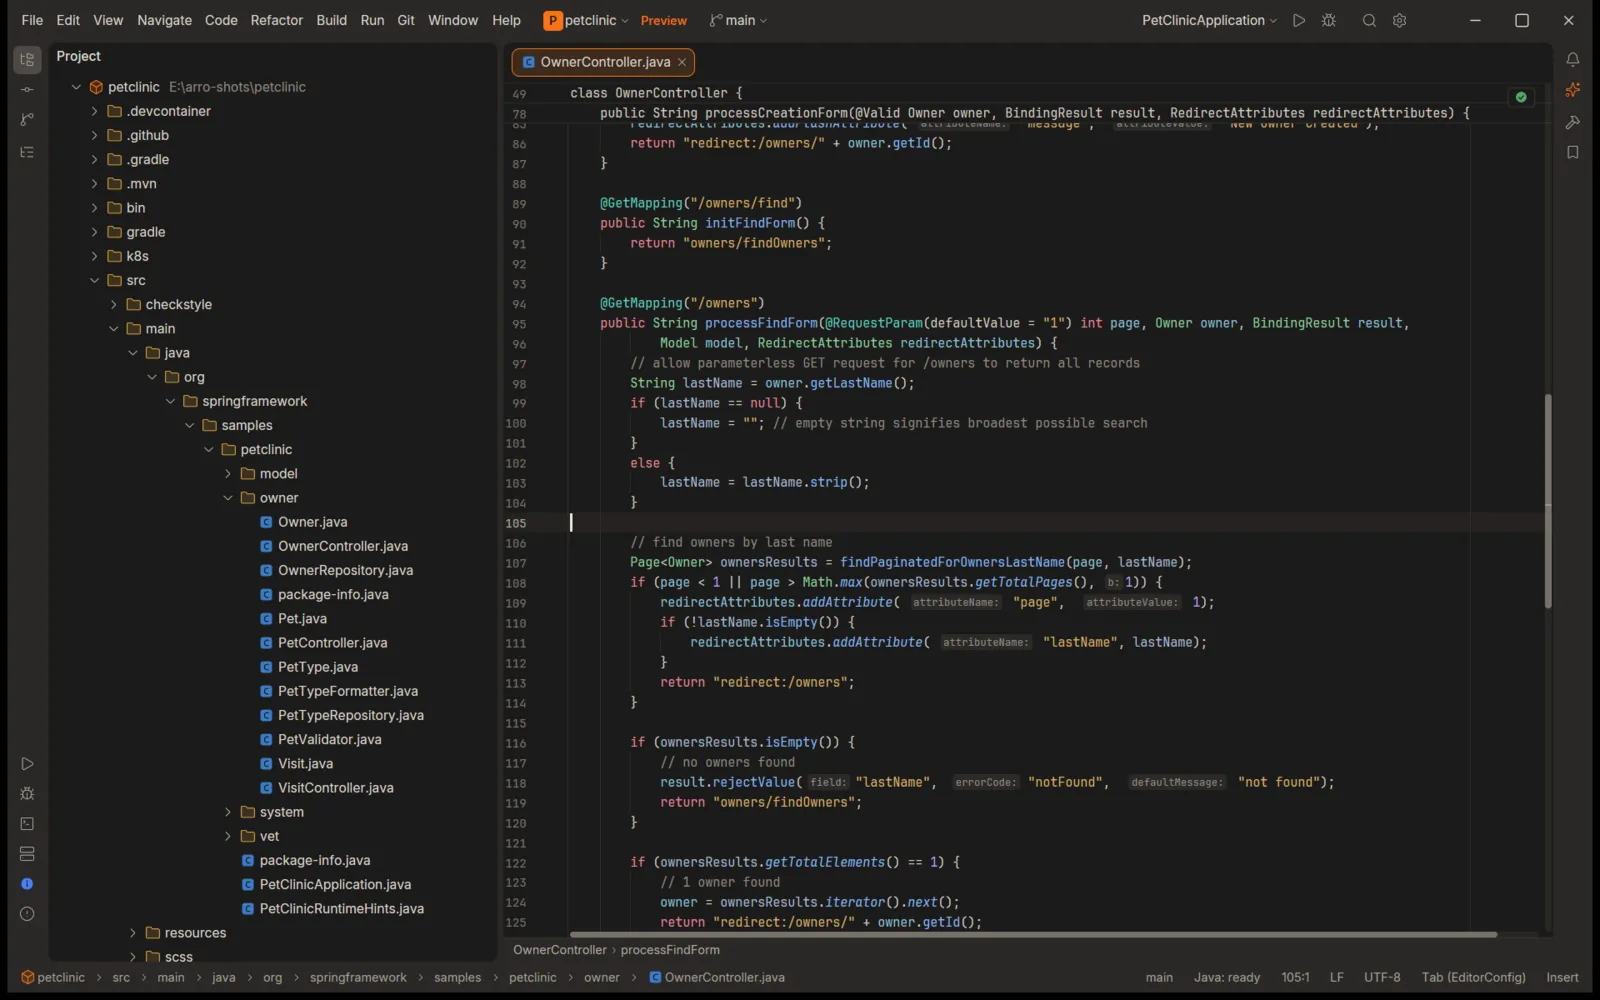
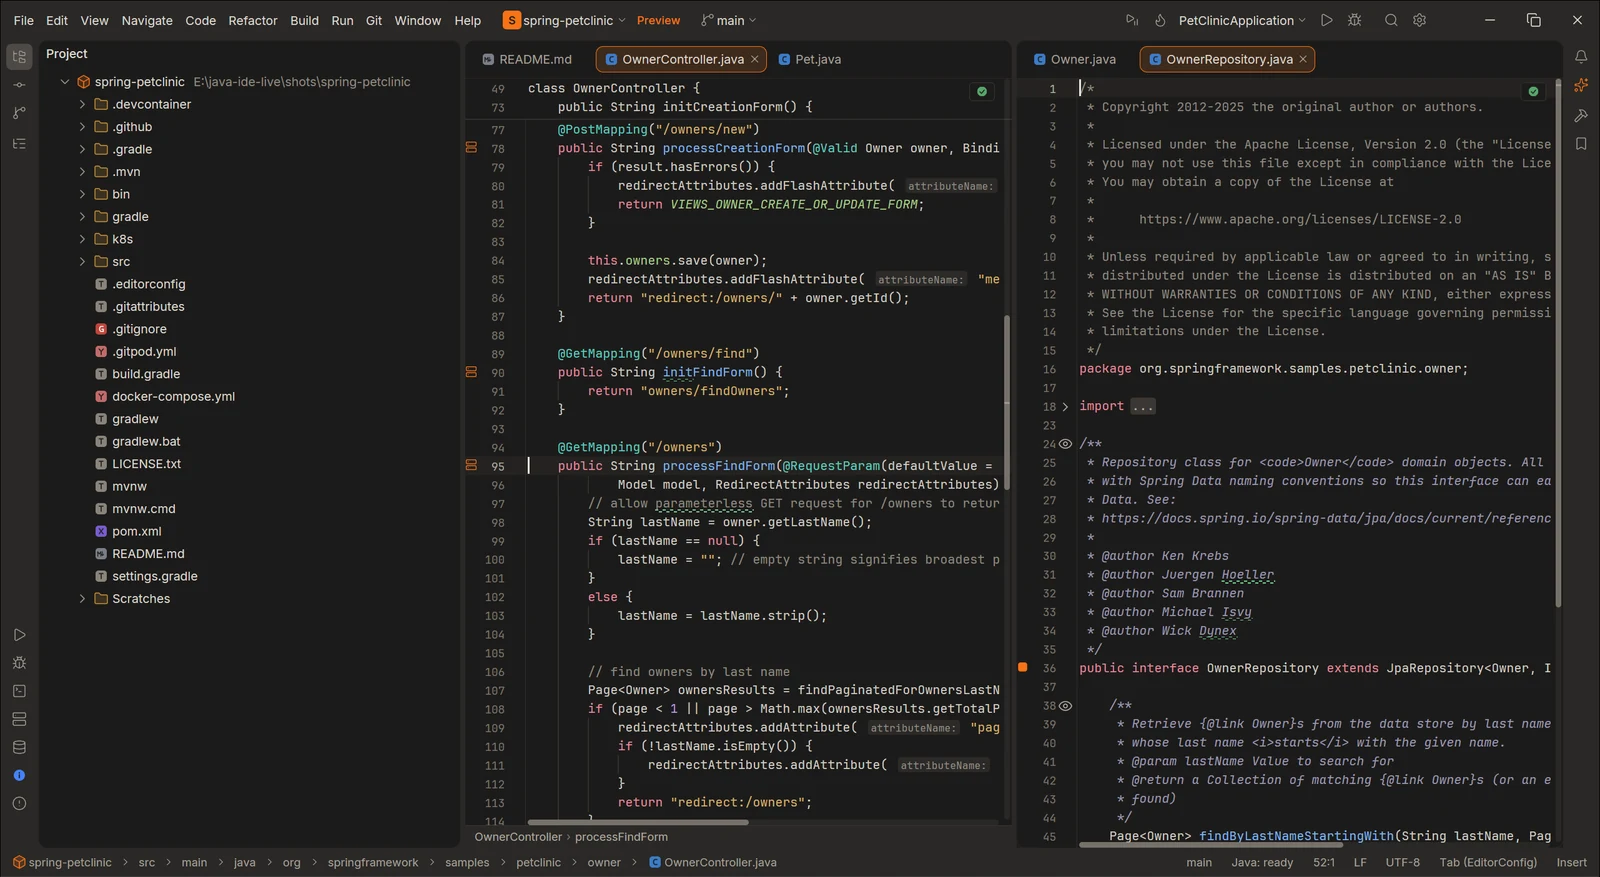
Arro: new screenshots in five themes, sections for themes, the branches popup, editor and terminal

diff --git a/arro/index.html b/arro/index.html
@@ -82,7 +82,7 @@
     <div class="shot-wrap">
       <figure class="plate reveal">
         <div class="shot">
-            <img src="/assets/img/arro/hero.webp" width="1600" height="1000" alt="Arro editing a Spring PetClinic controller: project tree, semantic highlighting, parameter hints" fetchpriority="high">
+            <img src="/assets/img/arro/hero.webp" width="1600" height="877" alt="Arro in the Dark theme: a Spring PetClinic controller and its repository side by side, sticky lines, endpoint marks and parameter hints" fetchpriority="high">
             <span class="callout l" style="--x:14%;--y:24%;--d:0s" aria-hidden="true"><i></i><span>Project tree</span></span>
             <span class="callout l" style="--x:22%;--y:97.6%;--d:.2s" aria-hidden="true"><i></i><span>Breadcrumbs</span></span>
             <span class="callout r" style="--x:93%;--y:11.2%;--d:.1s" aria-hidden="true"><i></i><span>Sticky lines</span></span>
@@ -112,14 +112,14 @@
     <div class="feature">
       <div class="reveal">
         <h3>Code intelligence</h3>
-        <p>Completion with auto-import, quick fixes on Alt+Enter, semantic highlighting, parameter name hints, Find Usages, call and type hierarchy, class diagrams, and the refactorings: rename, extract, inline, change signature, safe delete.</p>
+        <p>Fast completion with documentation and auto-import, Alt+Enter with quick fixes, intentions and a preview of the change, Ctrl+B that jumps at once, semantic highlighting, parameter name hints, Find Usages, call and type hierarchy, class diagrams, and the refactorings: rename, extract, inline, change signature, safe delete.</p>
         <ul class="chips">
           <li>Structural Search and Replace</li><li>Live and postfix templates</li><li>Reformat</li><li>Optimize imports</li><li>Create Test</li><li>Inspection levels per project</li>
         </ul>
       </div>
       <figure class="plate reveal">
-        <img src="/assets/img/arro/completion.webp" width="1600" height="1000" alt="Completion popup in the Arro editor" decoding="async">
-        <figcaption><b>Completion</b> Methods of a Spring Data repository.</figcaption>
+        <img src="/assets/img/arro/completion.webp" width="1600" height="877" alt="Completion with documentation in the Arro editor, Paper theme" decoding="async">
+        <figcaption><b>Completion</b> With documentation, in the Paper theme.</figcaption>
       </figure>
     </div>
 
@@ -138,12 +138,36 @@
     <div class="feature">
       <div class="reveal">
         <h3>Git, built in</h3>
-        <p>Commit, diff, log, branches with merge, rebase and compare, shelf and stash, conflict resolution, history of a selection or a method, submodules and local history.</p>
-        <p style="margin-top:12px">Dark and light themes, Distraction Free, Zen and Presentation modes, and a configurable keymap.</p>
+        <p>A branches popup like IntelliJ IDEA’s: search, favourites, branches folded by their slashes, and checkout, merge, rebase, compare and push from one arrow. Change markers next to the line numbers show the original text and roll a change back.</p>
+        <p style="margin-top:12px">Commit, diff, log, shelf and stash, conflict resolution, history of a selection or a method, submodules and local history.</p>
       </div>
       <figure class="plate reveal">
-        <img src="/assets/img/arro/light.webp" width="1600" height="1000" alt="Arro in the light theme" decoding="async">
-        <figcaption><b>Light theme</b> The same window by day.</figcaption>
+        <img src="/assets/img/arro/branches.webp" width="1600" height="877" alt="The Git branches popup in Arro, Nord theme" decoding="async">
+        <figcaption><b>Branches</b> Folded by their slashes, in the Nord theme.</figcaption>
+      </figure>
+    </div>
+
+    <div class="feature flip">
+      <div class="reveal">
+        <h3>Themes</h3>
+        <p>Seven built-in themes: Dark, Light, High Contrast, Retro, Nord, Mocha and Paper. Pick one for the light and one for the dark system appearance and let Arro follow the OS, or preview them with Quick Switch Scheme (Ctrl+`).</p>
+        <p style="margin-top:12px">A theme is a short JSON file that can inherit from another one; an IntelliJ IDEA <code>.icls</code> color scheme imports in one click. Distraction Free, Zen and Presentation modes, and a configurable keymap.</p>
+      </div>
+      <figure class="plate reveal">
+        <img src="/assets/img/arro/themes.webp" width="1600" height="877" alt="Theme cards in the Arro settings, Mocha theme" decoding="async">
+        <figcaption><b>Themes</b> Settings → Appearance, in the Mocha theme.</figcaption>
+      </figure>
+    </div>
+
+    <div class="feature">
+      <div class="reveal">
+        <h3>Editor and terminal</h3>
+        <p>Split editors, a terminal with tabs, search and clickable paths, file type icons, folding and sticky lines. Highlighting for Python, C, C++, C#, Go, Rust, Scala, PHP, Ruby, Swift, Lua, PowerShell, Protobuf and more, next to Java.</p>
+        <p style="margin-top:12px">An AI Sessions panel for Claude Code and Codex over the Agent Client Protocol is in early preview.</p>
+      </div>
+      <figure class="plate reveal">
+        <img src="/assets/img/arro/terminal.webp" width="1600" height="877" alt="Split editors and the terminal in Arro, Retro theme" decoding="async">
+        <figcaption><b>Terminal</b> Split editors and a shell, in the Retro theme.</figcaption>
       </figure>
     </div>
 
@@ -154,7 +178,7 @@
       </section>
       <section>
         <h3>Tools in the window</h3>
-        <p>A database console for JDBC sources, an HTTP client for <code>.http</code> files that turns pasted cURL into requests, a profiler on Java Flight Recorder, a JShell console, a dependency analyzer, and newer dependency versions marked in build files.</p>
+        <p>A database console for JDBC sources with drivers that download themselves and passwords in the system keychain, an HTTP client for <code>.http</code> files that turns pasted cURL into requests, a profiler on Java Flight Recorder, a JShell console, a dependency analyzer, and newer dependency versions marked in build files.</p>
       </section>
       <section>
         <h3>And the rest</h3>

diff --git a/index.html b/index.html
@@ -144,7 +144,7 @@
         <p class="links"><a class="primary" href="/arro/">Open Arro <svg viewBox="0 0 16 16" fill="none" stroke="currentColor" stroke-width="2" stroke-linecap="round" stroke-linejoin="round" aria-hidden="true"><path d="M2.5 8h10.5M9 3.8 13.2 8 9 12.2"/></svg></a><a href="https://github.com/PabloSensei/arro/releases/latest">Download <span class="mono"><span data-arro-version>0.1.19</span></span></a></p>
       </div>
       <div class="side reveal">
-        <figure class="plate"><div class="fit"><img src="/assets/img/arro/hero.webp" width="1600" height="1000" alt="Arro editing a Spring PetClinic controller: project tree, semantic highlighting, parameter hints" decoding="async"></div><figcaption><b>Arro</b> Editing a Spring PetClinic controller.</figcaption></figure>
+        <figure class="plate"><div class="fit"><img src="/assets/img/arro/hero.webp" width="1600" height="877" alt="Arro in the Dark theme editing a Spring PetClinic controller" decoding="async"></div><figcaption><b>Arro</b> Editing a Spring PetClinic controller.</figcaption></figure>
         <div class="meta-row">
           <div class="requires"><p class="req-head">System requirements</p><dl><dt>Systems</dt><dd>Windows 11 x86-64; Linux x86-64 and macOS Apple silicon as previews</dd><dt>Java</dt><dd>JDK 25+ for the language server; projects on JDK 8 to 25</dd></dl></div>
           <span class="sticker"><small>Free</small><span class="mono"><span data-arro-version>0.1.19</span></span></span>
